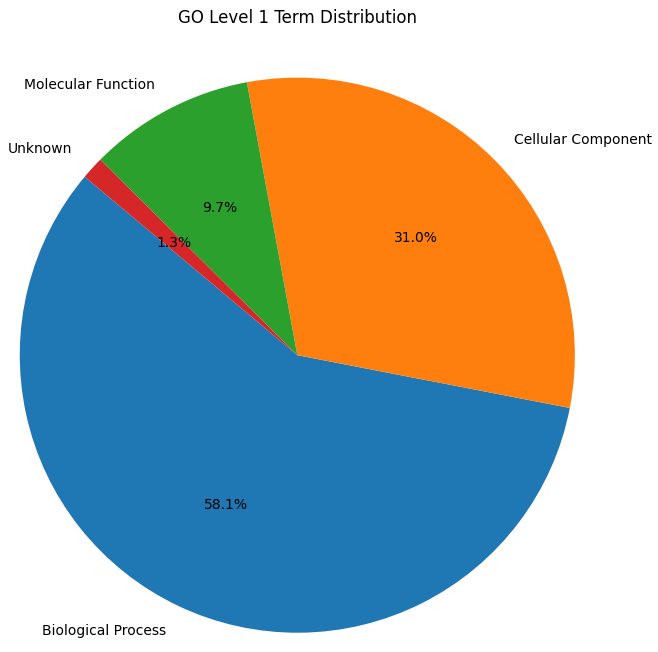
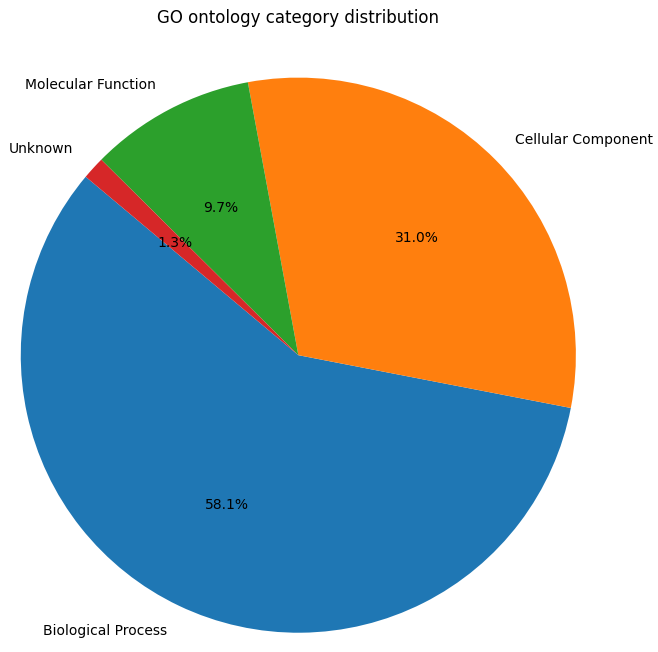
Fix terminology for the go ontology catergories plot

diff --git a/code/08_functional_annotation/go_category_distribution.py b/code/08_functional_annotation/go_category_distribution.py
@@ -39,7 +39,7 @@ sizes = [namespace_counts[k] for k in namespace_counts]
 
 plt.figure(figsize=(7, 7))
 plt.pie(sizes, labels=labels, autopct='%1.1f%%', startangle=140)
-plt.title("GO Level 1 Term Distribution")
+plt.title("GO ontology category distribution")
 plt.axis('equal')
 plt.tight_layout()
 plt.show()

diff --git a/code/08_functional_annotation/cog_distribution.py b/code/08_functional_annotation/cog_distribution.py
@@ -28,6 +28,7 @@ cog_labels = {
     'S': 'Function unknown'
 }
 
+# Manually extracted from the cog_counts.txt file generated in line 20 (08_functional_annotation/03_extract_statistics.sh)
 cog_counts = {
     'J': 72,
     'A': 48,
